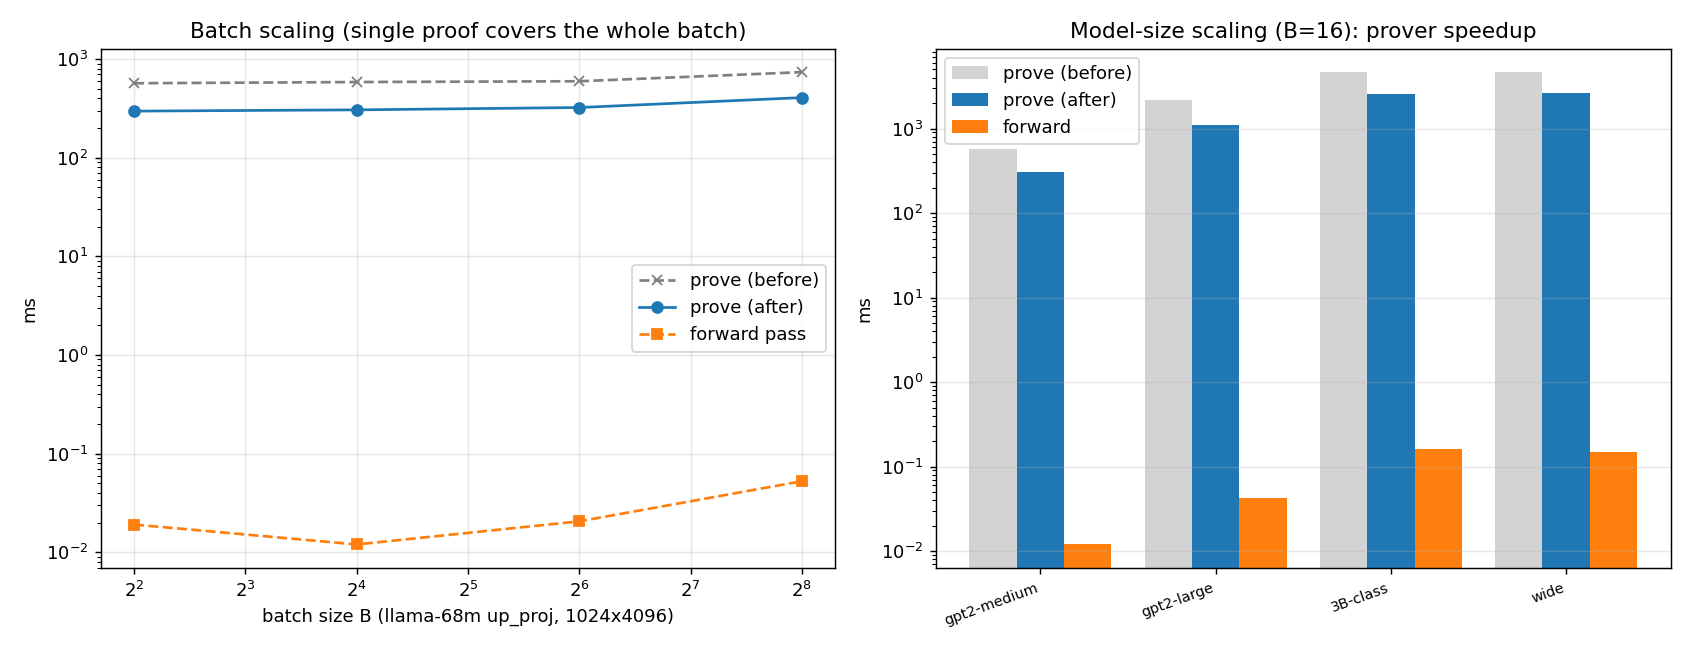
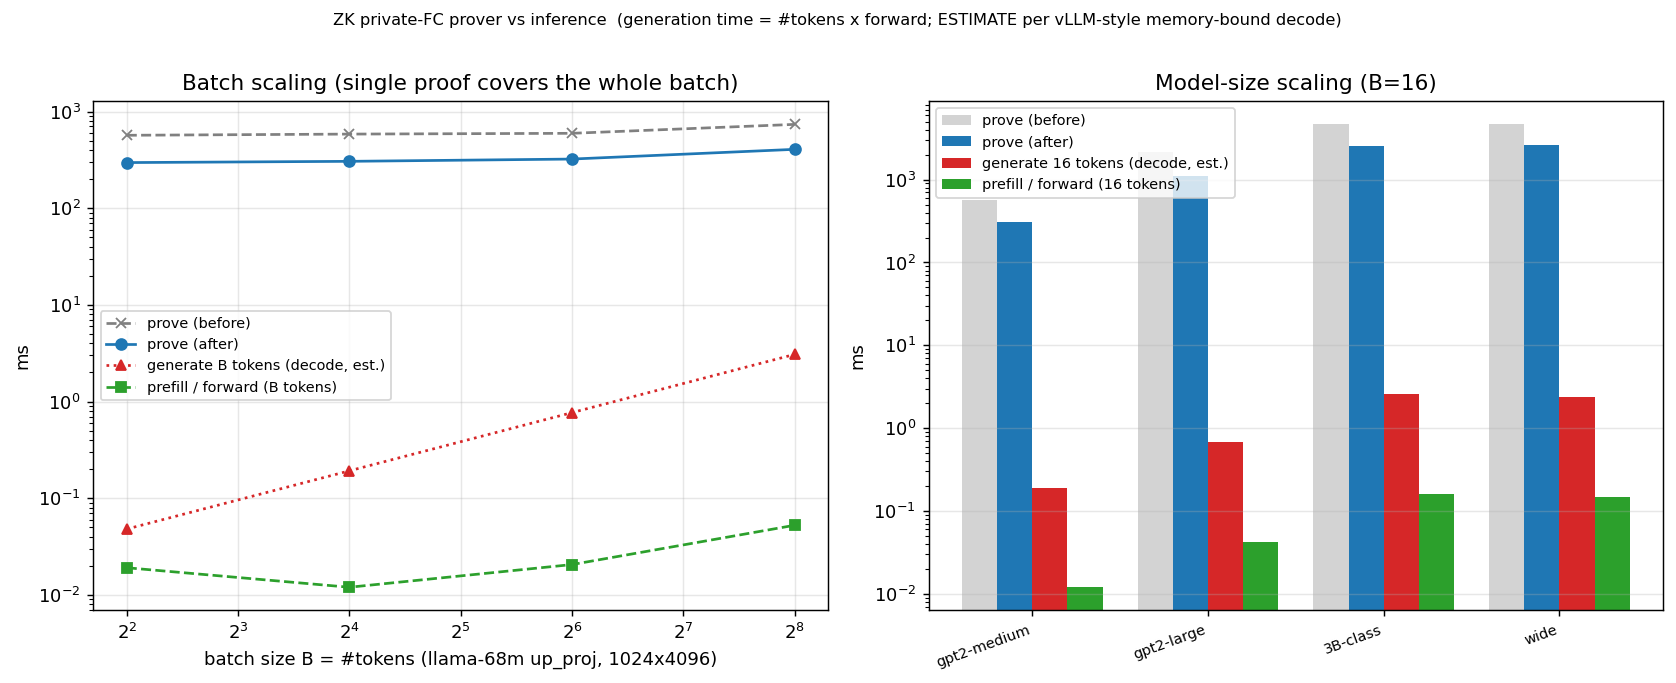
Plot: add estimated generation (decode) time bar (N x forward, vLLM-style memory-bound decode estimate)

diff --git a/plot.py b/plot.py
@@ -4,22 +4,27 @@ import matplotlib.pyplot as plt
 rows=list(csv.DictReader(open("sweep_results.csv")))
 batch=[r for r in rows if r["label"].startswith("llama68m_B")]
 models=[r for r in rows if not r["label"].startswith("llama68m_B")]
-fig,ax=plt.subplots(1,2,figsize=(13,5))
+fig,ax=plt.subplots(1,2,figsize=(13,5.2))
 if batch:
     B=[int(r["B"]) for r in batch]; fwd=[float(r["fwd_us"])/1000 for r in batch]
+    gen=[float(r["gen_ms"]) for r in batch]
     pr=[float(r["prove_ms"]) for r in batch]; prold=[float(r["prove_old_ms"]) for r in batch]
     ax[0].plot(B,prold,'x--',color='gray',label="prove (before)")
-    ax[0].plot(B,pr,'o-',label="prove (after)"); ax[0].plot(B,fwd,'s--',label="forward pass")
-    ax[0].set_xscale('log',base=2); ax[0].set_yscale('log'); ax[0].set_xlabel("batch size B (llama-68m up_proj, 1024x4096)")
-    ax[0].set_ylabel("ms"); ax[0].set_title("Batch scaling (single proof covers the whole batch)"); ax[0].legend(); ax[0].grid(True,alpha=.3)
+    ax[0].plot(B,pr,'o-',label="prove (after)")
+    ax[0].plot(B,gen,'^:',color='C3',label="generate B tokens (decode, est.)")
+    ax[0].plot(B,fwd,'s--',color='C2',label="prefill / forward (B tokens)")
+    ax[0].set_xscale('log',base=2); ax[0].set_yscale('log'); ax[0].set_xlabel("batch size B = #tokens (llama-68m up_proj, 1024x4096)")
+    ax[0].set_ylabel("ms"); ax[0].set_title("Batch scaling (single proof covers the whole batch)"); ax[0].legend(fontsize=8); ax[0].grid(True,alpha=.3)
 if models:
     lbl=[r["label"].split("(")[0] for r in models]
     pr=[float(r["prove_ms"]) for r in models]; prold=[float(r["prove_old_ms"]) for r in models]
-    fwd=[float(r["fwd_us"])/1000 for r in models]
-    x=range(len(models)); w=.27
-    ax[1].bar([i-w for i in x],prold,w,label="prove (before)",color='lightgray')
-    ax[1].bar([i for i in x],pr,w,label="prove (after)")
-    ax[1].bar([i+w for i in x],fwd,w,label="forward")
+    fwd=[float(r["fwd_us"])/1000 for r in models]; gen=[float(r["gen_ms"]) for r in models]
+    x=range(len(models)); w=.2
+    ax[1].bar([i-1.5*w for i in x],prold,w,label="prove (before)",color='lightgray')
+    ax[1].bar([i-0.5*w for i in x],pr,w,label="prove (after)",color='C0')
+    ax[1].bar([i+0.5*w for i in x],gen,w,label="generate 16 tokens (decode, est.)",color='C3')
+    ax[1].bar([i+1.5*w for i in x],fwd,w,label="prefill / forward (16 tokens)",color='C2')
     ax[1].set_yscale('log'); ax[1].set_xticks(list(x)); ax[1].set_xticklabels(lbl,rotation=20,ha='right',fontsize=8)
-    ax[1].set_title("Model-size scaling (B=16): prover speedup"); ax[1].set_ylabel("ms"); ax[1].legend(); ax[1].grid(True,alpha=.3,axis='y')
-plt.tight_layout(); plt.savefig("sweep_plot.png",dpi=130); print("WROTE sweep_plot.png")
+    ax[1].set_title("Model-size scaling (B=16)"); ax[1].set_ylabel("ms"); ax[1].legend(fontsize=8); ax[1].grid(True,alpha=.3,axis='y')
+fig.suptitle("ZK private-FC prover vs inference  (generation time = #tokens x forward; ESTIMATE per vLLM-style memory-bound decode)",fontsize=9,y=1.005)
+plt.tight_layout(); plt.savefig("sweep_plot.png",dpi=130,bbox_inches='tight'); print("WROTE sweep_plot.png")

diff --git a/SPEEDUPS_IMPLEMENTED.md b/SPEEDUPS_IMPLEMENTED.md
@@ -55,3 +55,16 @@ but not yet implemented (they are larger, coordinated prover+verifier changes).
 Note: this is still the **integrity** prover (zero-knowledge not yet achieved — the opening
 sumcheck leak is the separate, #1 crypto task). These speedups carry over to the eventual ZK
 version.
+
+## Plot note: estimated generation (decode) time
+
+The plot adds an estimated **generation** bar alongside the measured prefill/forward bar.
+Generating tokens autoregressively (decode) runs **one token at a time and is
+memory-bandwidth bound** — each token re-reads the layer's weights — whereas prefill
+amortizes a single weight-pass across the whole batch (compute-bound). So we **estimate**
+decode of N tokens as `N x (the layer's forward-pass time)` (per-token decode ≈ one weight
+read). This is a rough estimate, not measured; it reflects the prefill-compute-bound vs
+decode-memory-bound behavior reported in vLLM benchmarks. Equivalently, per token decode is
+~B× slower than batched prefill. Against this more realistic generation time the proof
+overhead is ~B× lower than against prefill (e.g. 3B-class B=16: prove 2561 ms vs generate
+~2.6 ms vs prefill ~0.16 ms).